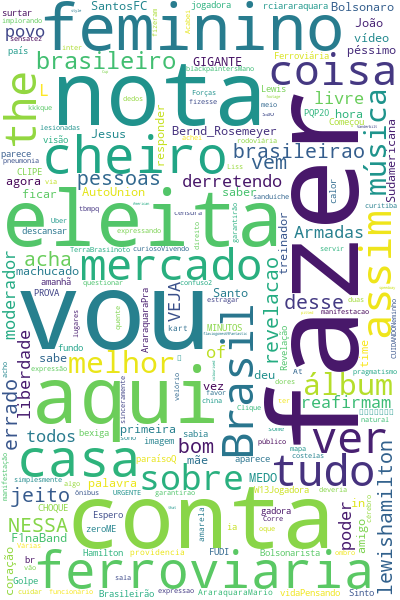
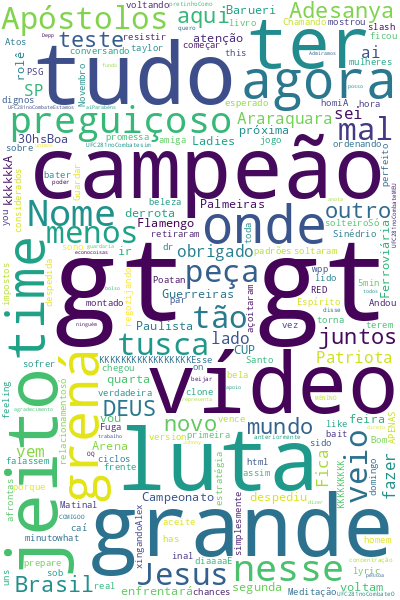
Please enter the commit message for your changes. Lines starting  with '' will be ignored, and an empty message aborts the commit.
On branch main
 Your branch is up to date with 'origin/main'.

 Changes to be committed:
	modified:   README.md
	modified:   tweepy/__init__.py
	deleted:    tweepy/img/BrasaoAraraquara.png
	deleted:    tweepy/img/BrasaoAraraquara.svg.png
	modified:   tweepy/img/cloud.png

diff --git a/tweepy/__init__.py b/tweepy/__init__.py
@@ -3,7 +3,6 @@ from selenium.webdriver.firefox.options import Options
 from wordcloud import WordCloud, STOPWORDS
 from selenium.webdriver import Firefox
 from bs4 import BeautifulSoup as Soup
-import matplotlib.pyplot as plt
 from pathlib import Path
 from time import sleep
 import platform
@@ -13,7 +12,6 @@ import re
 PATH_GECKODRIVER_WINDOWS = Path("tweepy/webdriver/geckodriver_windows.bin").absolute()
 PATH_GECKODRIVER_LINUX   = Path("tweepy/webdriver/geckodriver_linux.bin").absolute()
 PATH_PNG_OUTPUT          = Path("tweepy/img/cloud.png").absolute()
-PATH_MASK                = Path("tweepy/img/BrasaoAraraquara.png").absolute()
 FETCH_TWEETS             = 50 
 
 print(PATH_GECKODRIVER_LINUX)
@@ -71,7 +69,7 @@ def gen_twittes_txt(max_post):
 
         i += 1
         print(size_mapper)
-        sleep(2)
+        sleep(1)
 
     return list(raw_html_map.keys())
 
@@ -114,13 +112,12 @@ def get_tweets_words(stopword):
 
 def gen_cloud_word(stopword, txt):
     cloud = WordCloud(
-        background_color="black"
+        background_color="white"
     ,   stopwords=stopword
     ,   height=600
     ,   width=400
-    #,   mask=PATH_MASK
-    )
-    cloud.generate(txt)
+    ).generate(txt)
+
     cloud.to_file(PATH_PNG_OUTPUT)
 
 def main(latitude, longitude, raio, palavra_chave):
@@ -140,11 +137,4 @@ def main(latitude, longitude, raio, palavra_chave):
 
     gen_cloud_word(stopword, all_txt)
 
-    for word in tweets_words.keys():
-        print(f"[{word}]:  ")
-        for j in tweets_words[word].keys():
-            print(f"    >>> {j} <<<")
-
 main( -21.789341037025892, -48.17630560469828, 5, "")
-
-# TODO: Fix mask for img (numpy and "Image" lib for fix it)

diff --git a/README.md b/README.md
@@ -1,6 +1,9 @@
 # INSTALLING:
-1) Add poetry to your system (Windows Powershell|linux|MacOS):
+1) Add poetry to your system (linux|MacOS):
     curl -sSL https://install.python-poetry.org | python3 -
+
+    Windows Powershell:
+    (Invoke-WebRequest -Uri https://install.python-poetry.org -UseBasicParsing).Content | py -
 
 2) Install poetry virtual enviroment for project:
     poetry install
